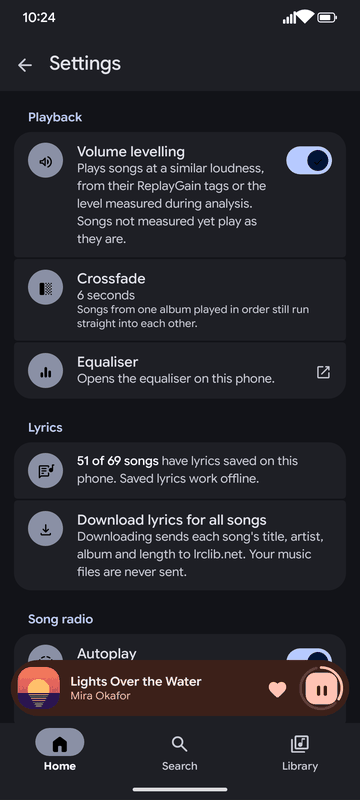
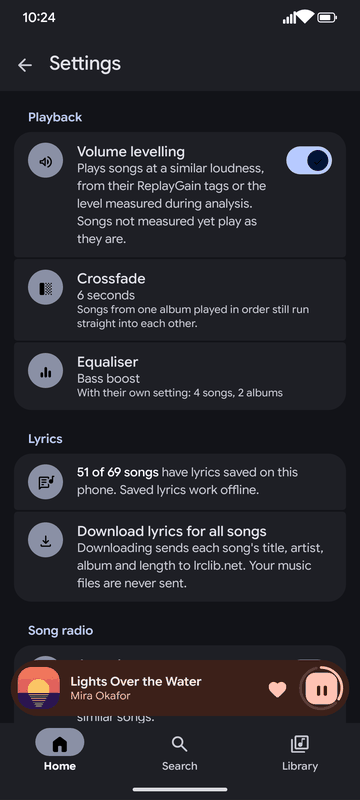
Render the equaliser sheet for the website and refresh the Playback settings shots

diff --git a/scripts/render_site_images.py b/scripts/render_site_images.py
@@ -35,7 +35,7 @@ THEMES = ("light", "dark")
 STYLES = ("expressive", "comfort")
 SCREENS = (
     "home", "now-playing", "album", "artist",
-    "library", "queue", "home-mixes", "lyrics", "recap", "settings-playback",
+    "library", "queue", "home-mixes", "lyrics", "recap", "settings-playback", "equaliser",
 )
 WIDTHS = (360, 720)
 
